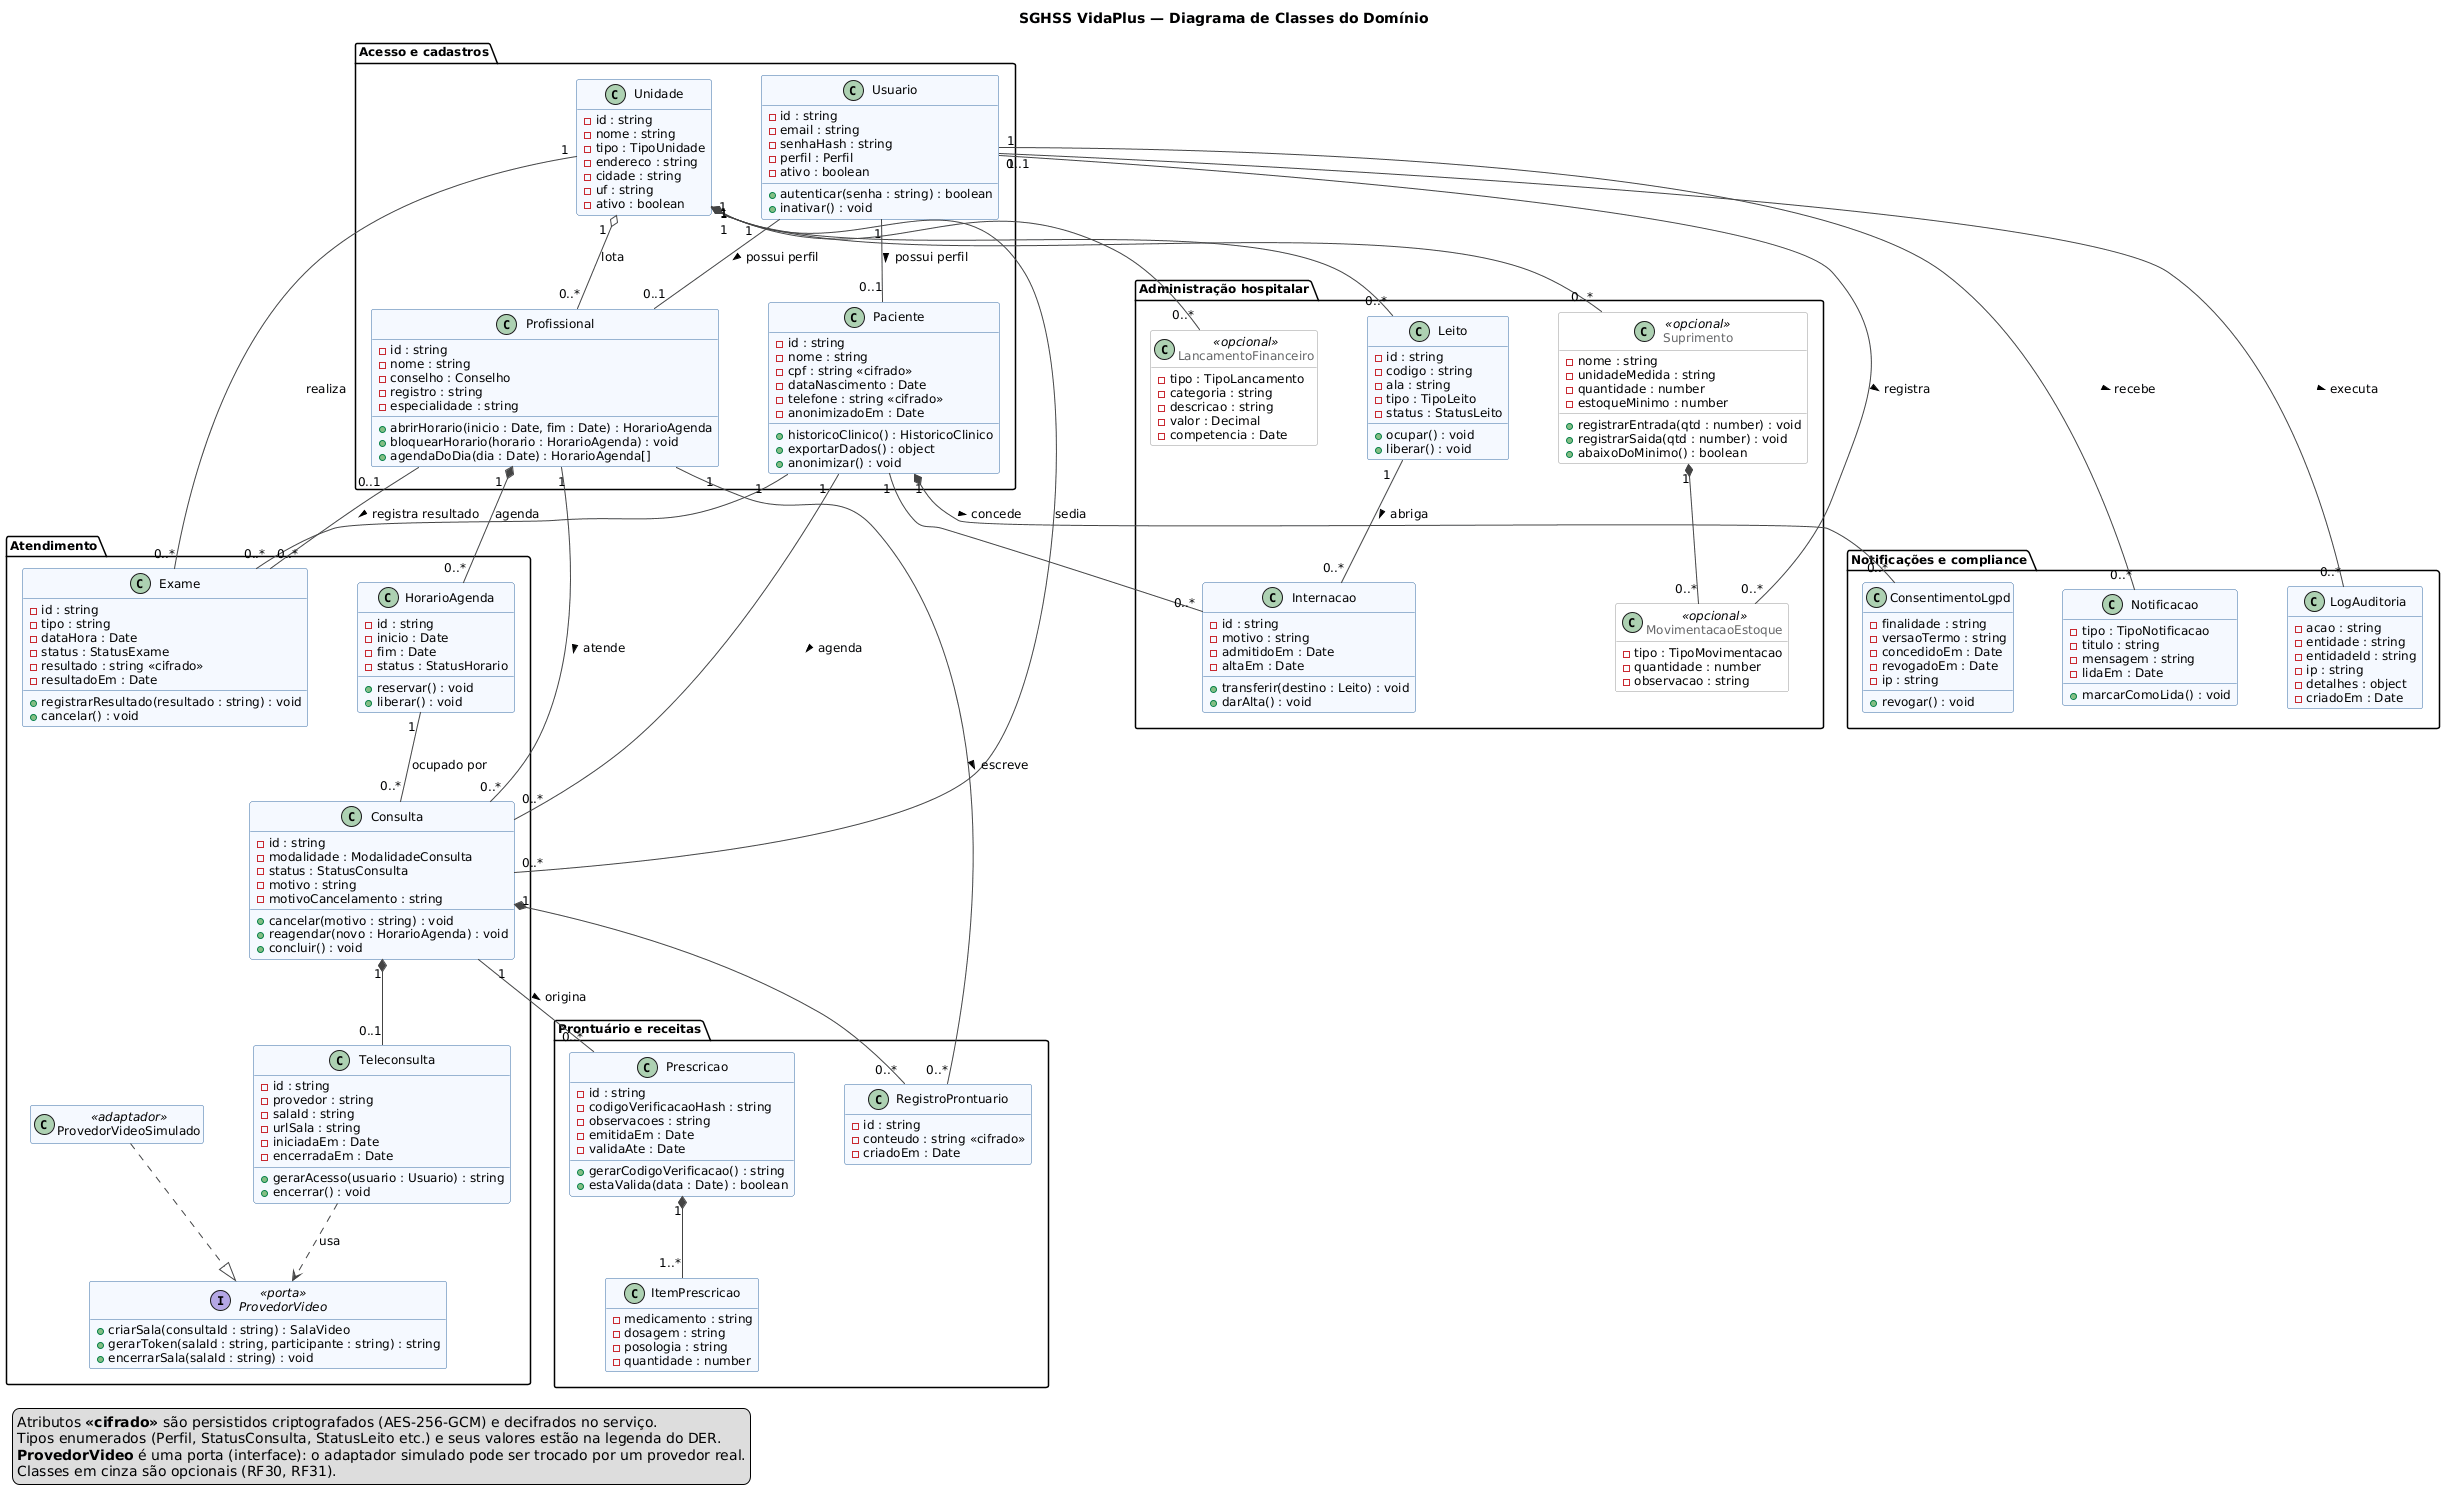
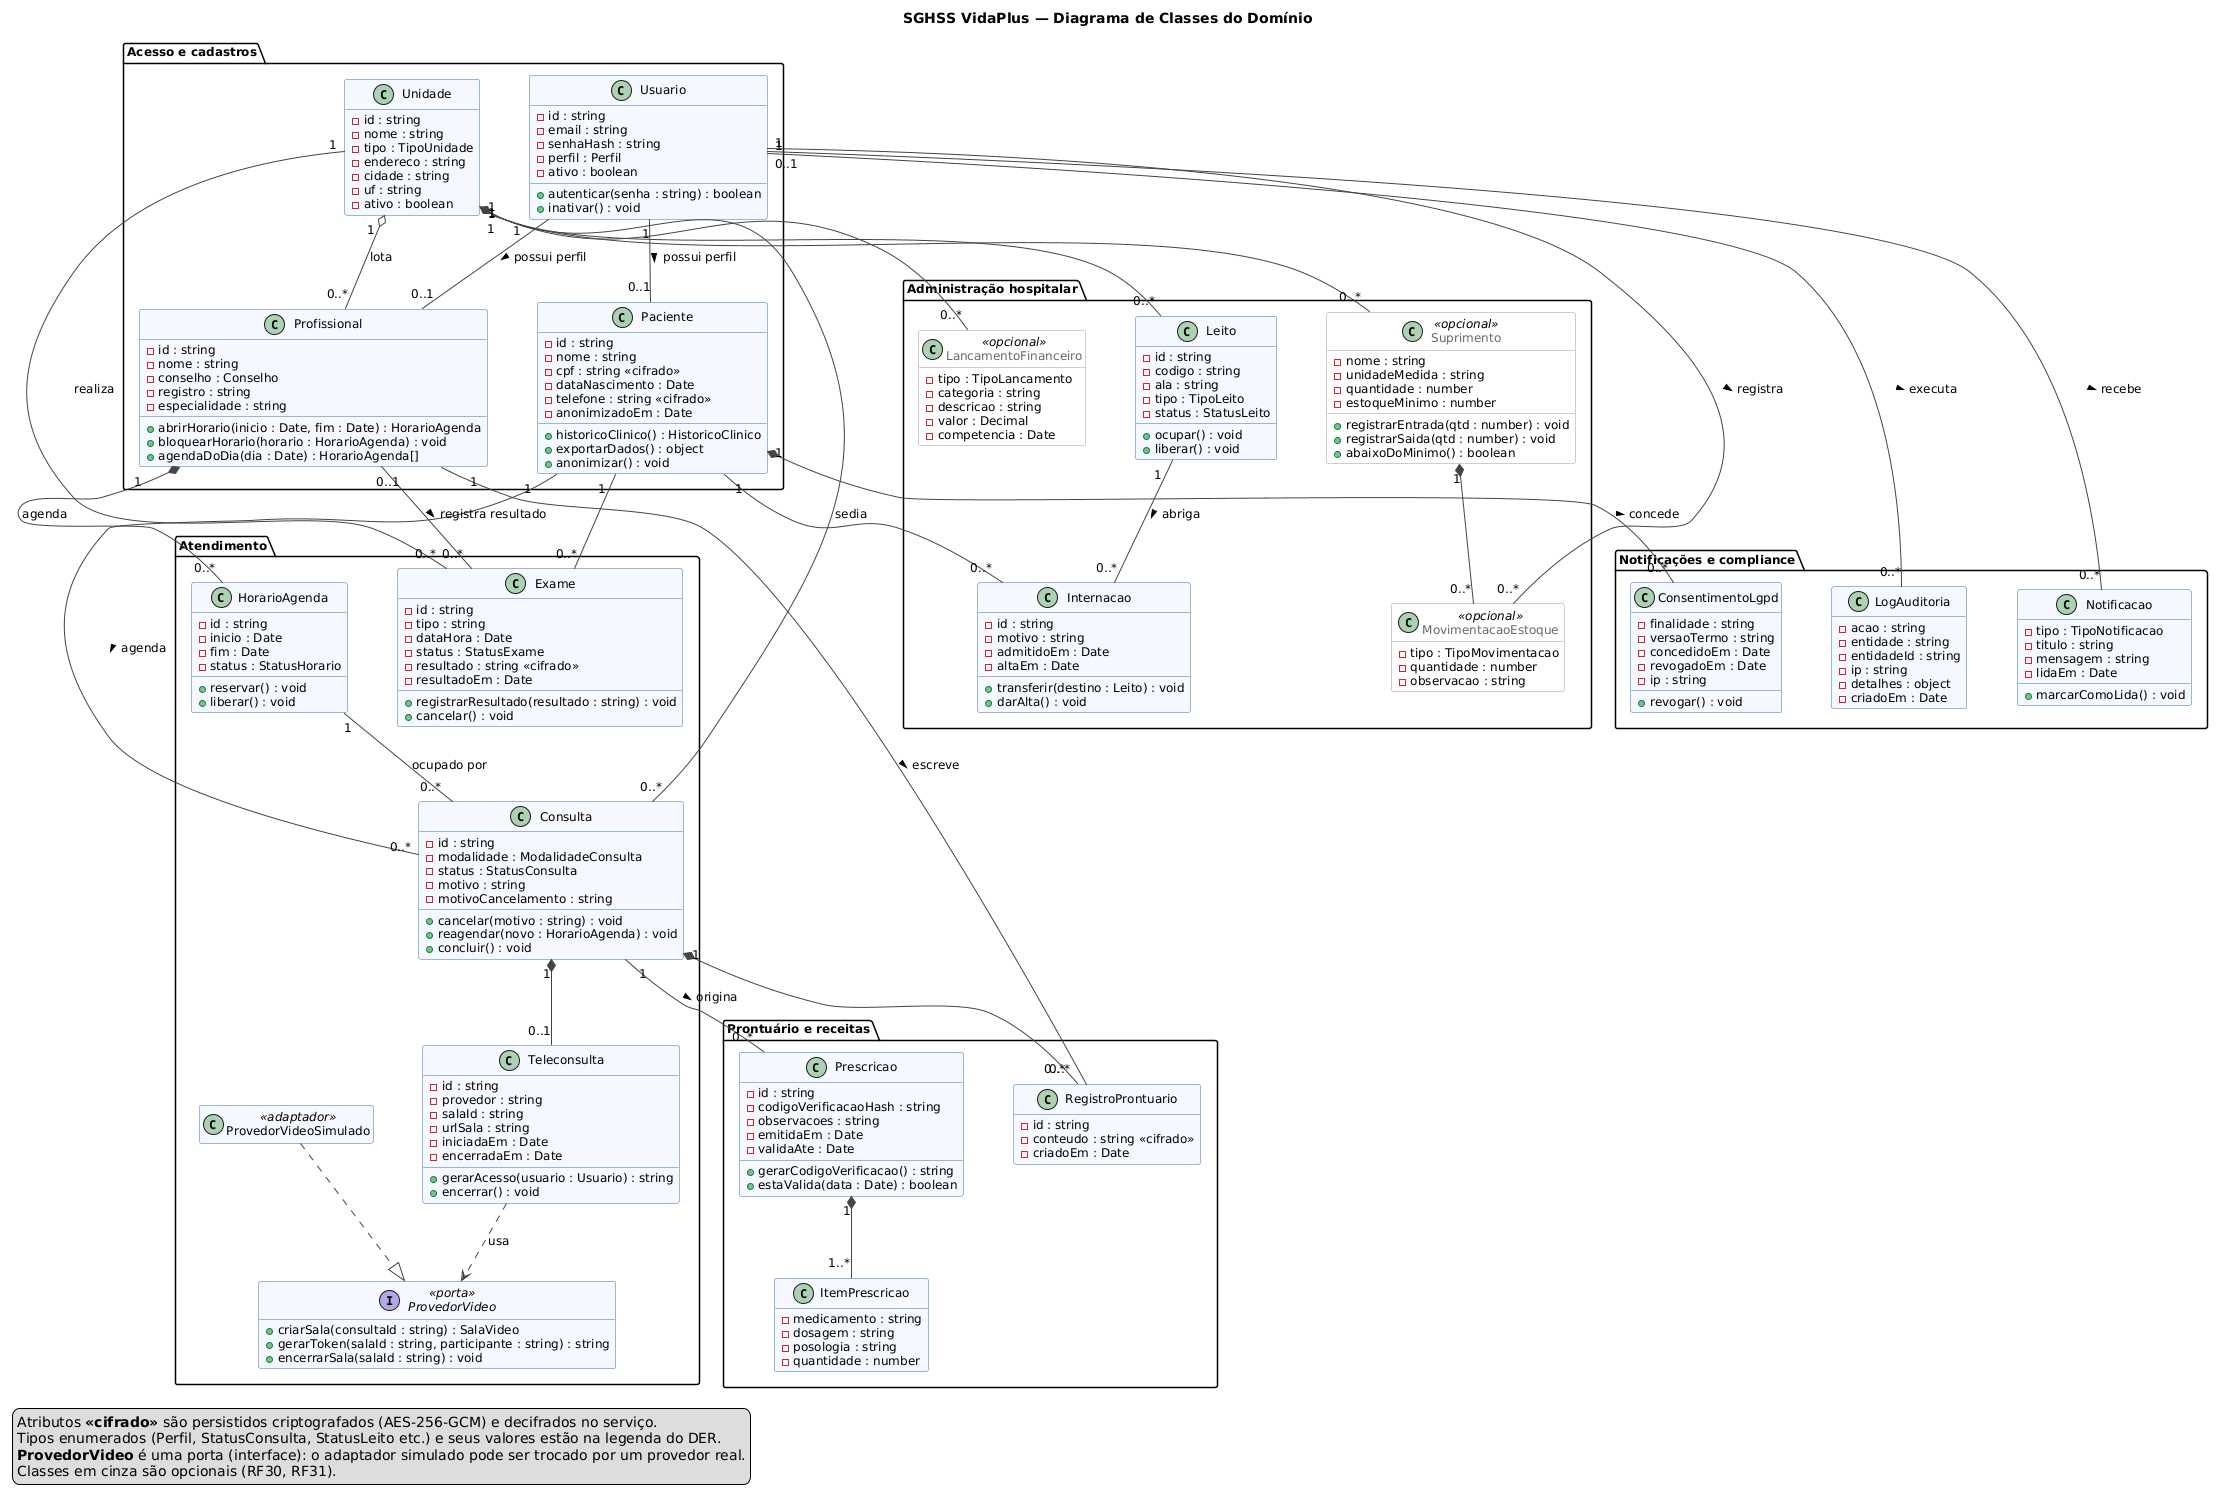
docs: remove profissional redundante da consulta

diff --git a/docs/modelagem.md b/docs/modelagem.md
@@ -29,7 +29,7 @@ Fontes PlantUML em [`diagramas/`](diagramas/); para regerar os PNGs, rode `bun r
 - **Chaves UUID.** Identificadores não sequenciais evitam que um ID revele volume de cadastros ou permita adivinhar registros de outros pacientes (enumeração), e facilitam a geração distribuída em múltiplas unidades (RNF06).
 - **Dados sensíveis cifrados (RNF01).** CPF, telefone, resultado de exame e conteúdo do prontuário são gravados criptografados com AES-256-GCM (colunas `_cifrado`). Como o texto cifrado muda a cada gravação, a busca e a unicidade do CPF usam `cpf_hash`, um HMAC-SHA-256 com chave própria — não é possível recuperar o CPF a partir dele.
 - **Multiunidade (RNF06).** Profissionais, leitos, consultas, exames e lançamentos referenciam a `unidade`, o que permite filtrar operações e relatórios por hospital, clínica, laboratório ou home care. A `consulta` grava a própria unidade para preservar o histórico mesmo que o profissional mude de lotação.
-- **Agenda sem conflito (RF11).** Cada consulta ocupa um `horario_agenda`. Ao agendar, o serviço muda o status do horário de `DISPONIVEL` para `RESERVADO` com uma atualização condicional dentro de uma transação, de modo que duas requisições simultâneas não reservem o mesmo horário. O cancelamento devolve o horário para `DISPONIVEL`; por isso um horário pode ter várias consultas no histórico, mas só uma ativa. A restrição única `(profissional_id, inicio)` impede horários duplicados.
+- **Agenda sem conflito (RF11).** Cada consulta ocupa um `horario_agenda`. Ao agendar, o serviço muda o status do horário de `DISPONIVEL` para `RESERVADO` com uma atualização condicional dentro de uma transação, de modo que duas requisições simultâneas não reservem o mesmo horário. O cancelamento devolve o horário para `DISPONIVEL`; por isso um horário pode ter várias consultas no histórico, mas só uma ativa. O profissional da consulta é obtido pelo horário, sem coluna repetida em `consulta` que pudesse divergir dele. A restrição única `(profissional_id, inicio)` impede horários duplicados.
 - **Teleconsulta como entidade própria (RF18, RF19).** Os dados da sala (provedor, identificador e URL) ficam em `teleconsulta`, ligada 1:0..1 à consulta. O token de acesso é gerado na entrada e não é armazenado. O provedor de vídeo é acessado por uma interface (`ProvedorVideo`) com adaptador simulado.
 - **Prontuário e auditoria somente para inclusão (RNF05).** `registro_prontuario` e `log_auditoria` não têm data de atualização: correções no prontuário geram um novo registro, preservando o histórico exigido para documentos clínicos. O autor do registro (`autor_id`) pode ser diferente do profissional da consulta (por exemplo, a enfermagem).
 - **Receita verificável (RF16, RF17).** Na emissão, o serviço gera um código aleatório de 256 bits (gerador criptográfico), entregue uma única vez ao médico/paciente junto com a receita. O banco guarda apenas `codigo_verificacao_hash` (SHA-256 do código): como o código não deriva de dados da receita, não pode ser adivinhado, e um vazamento do banco não expõe códigos válidos. A farmácia informa o código, a API calcula o hash e localiza a receita; a rota pública tem limite de requisições para impedir tentativas em massa.
